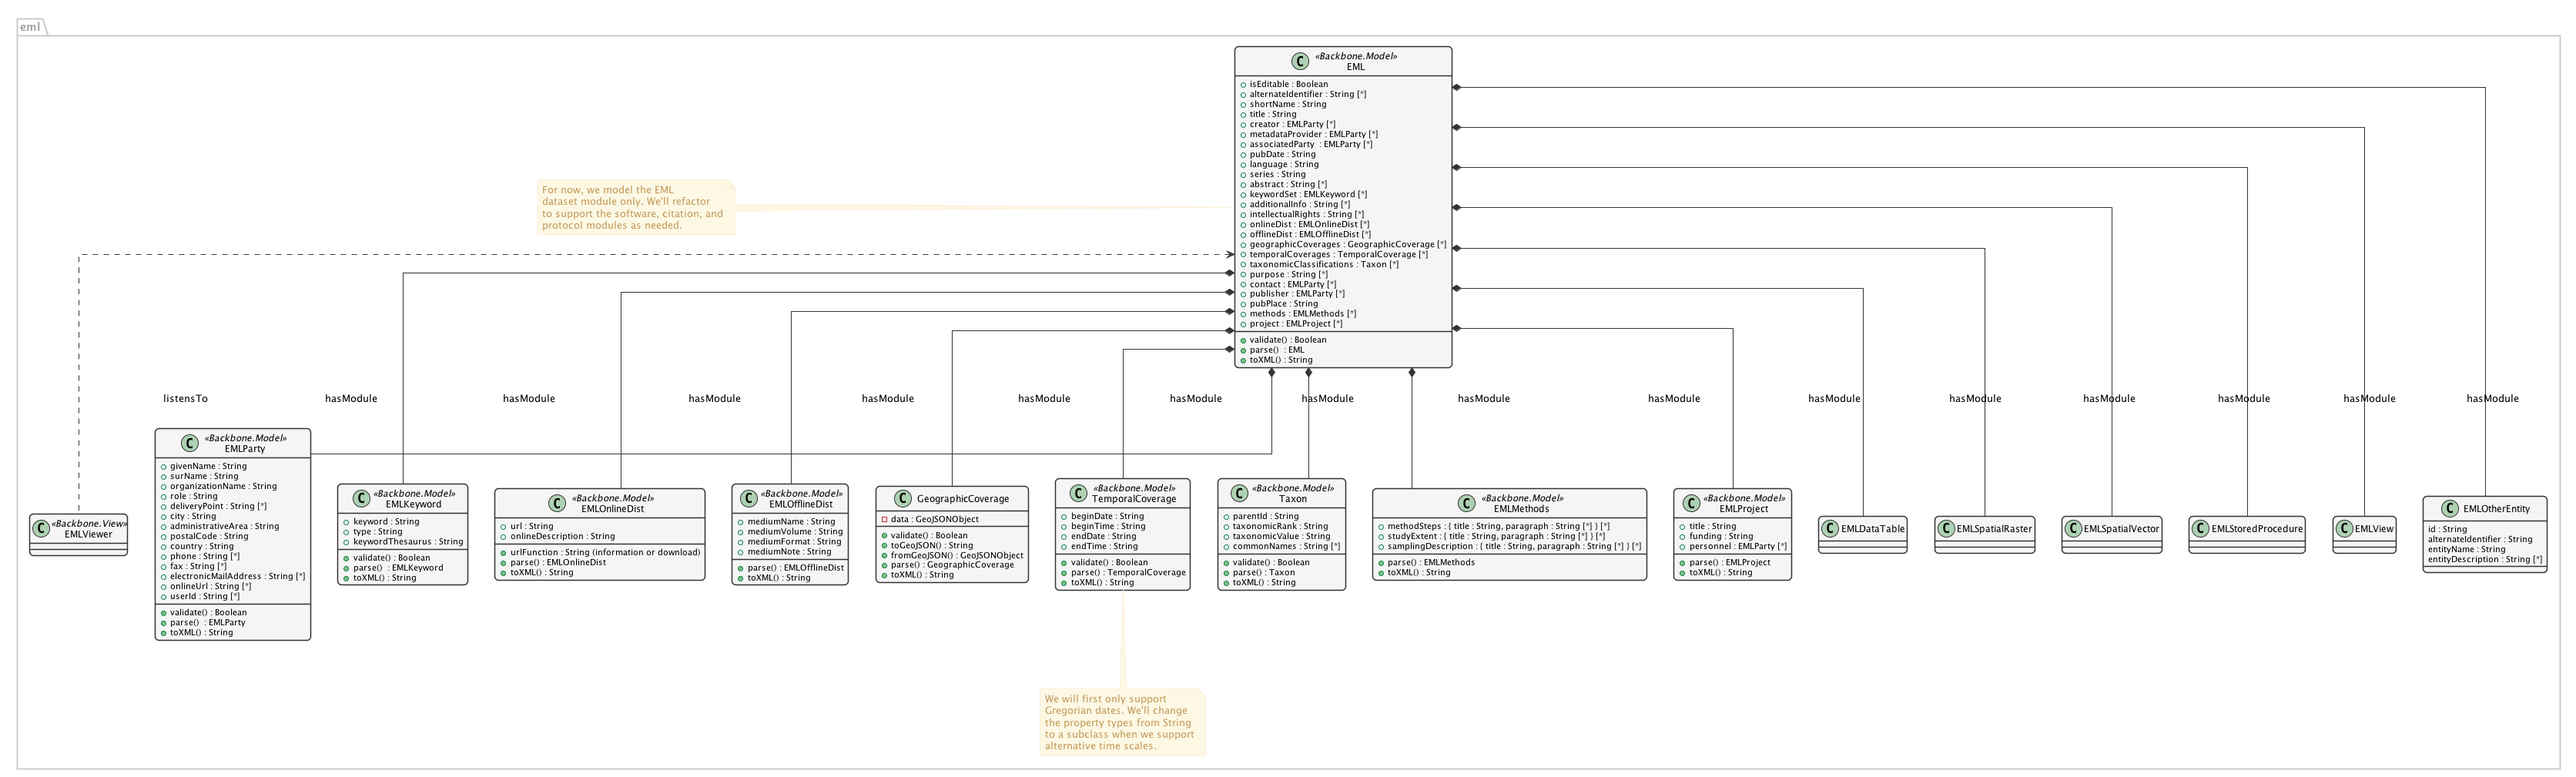
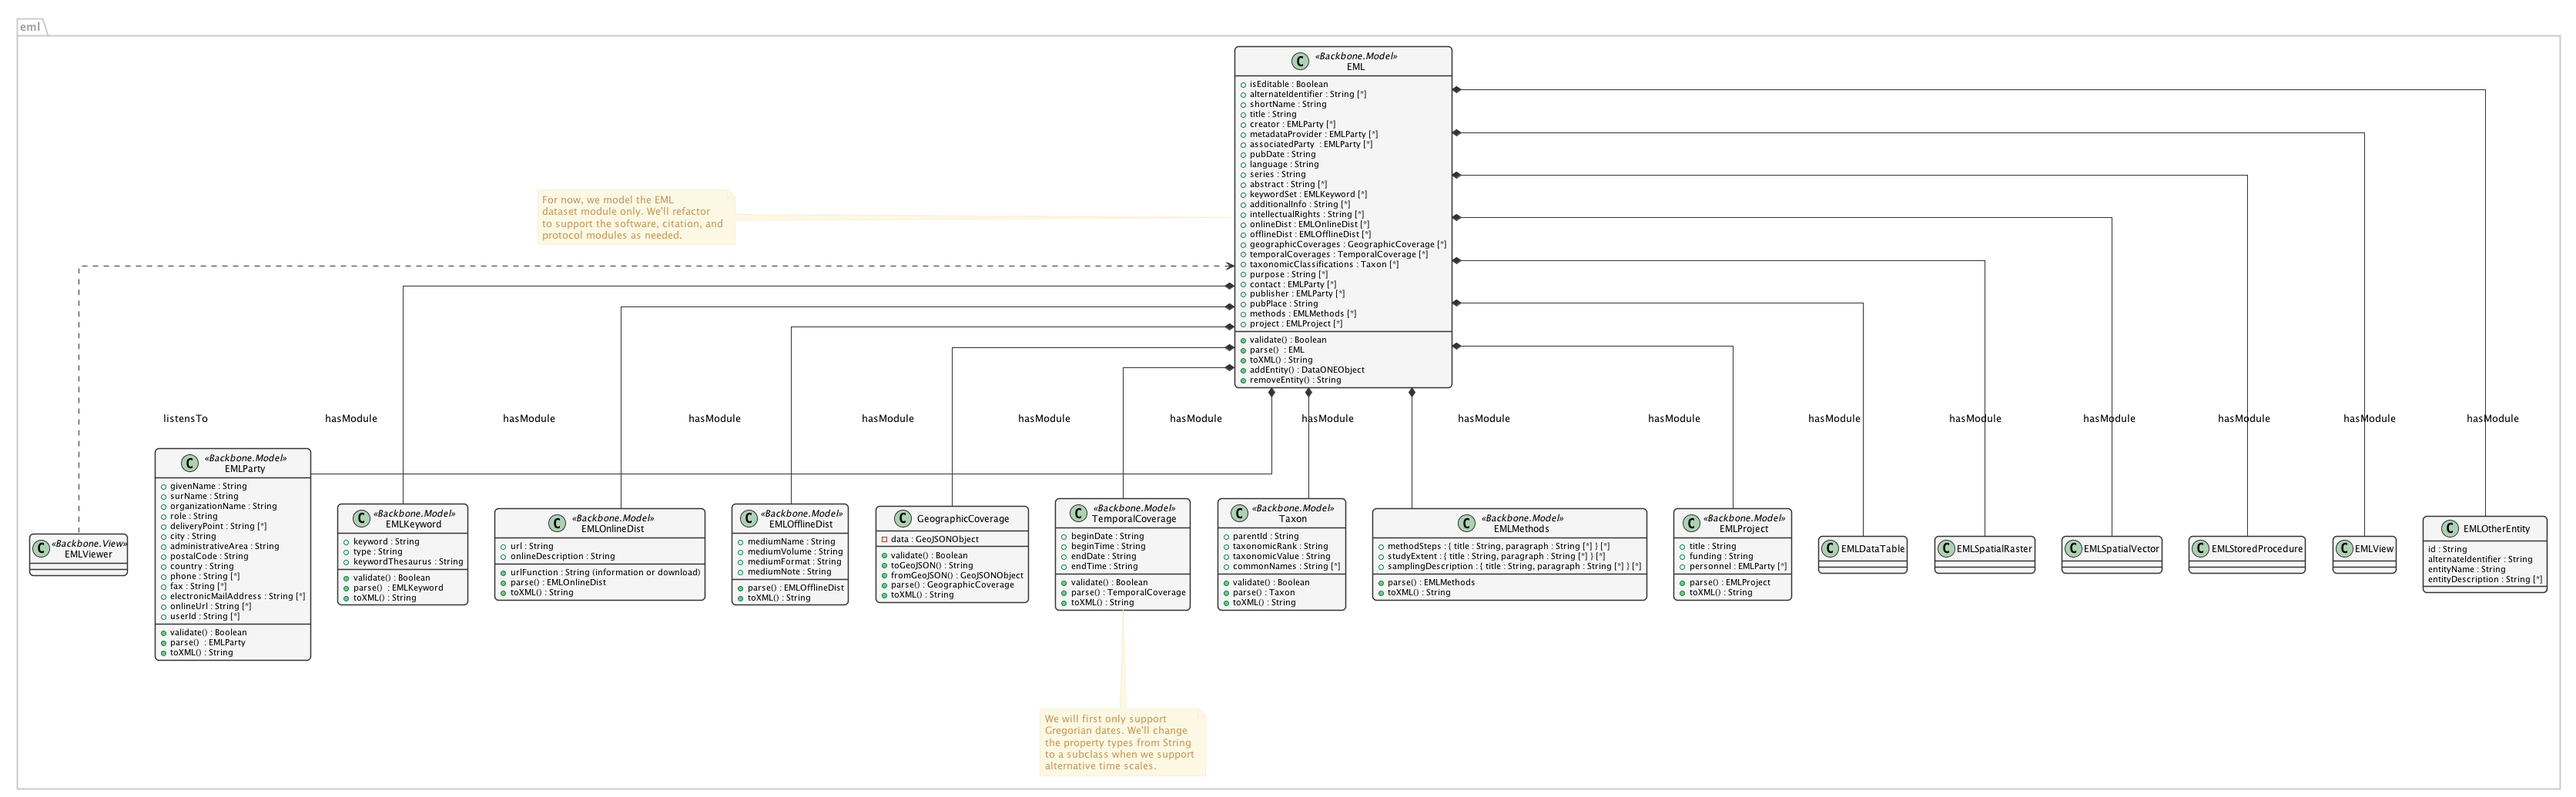
Fix a minor method typo.

diff --git a/metacatui/docs/design/editor/editor-design-eml-package.rst b/metacatui/docs/design/editor/editor-design-eml-package.rst
@@ -38,7 +38,7 @@
          + parse()  : EML
          + toXML() : String
          + addEntity() : DataONEObject
-         + removeEntity : String
+         + removeEntity() : String
        }
        
        note left
